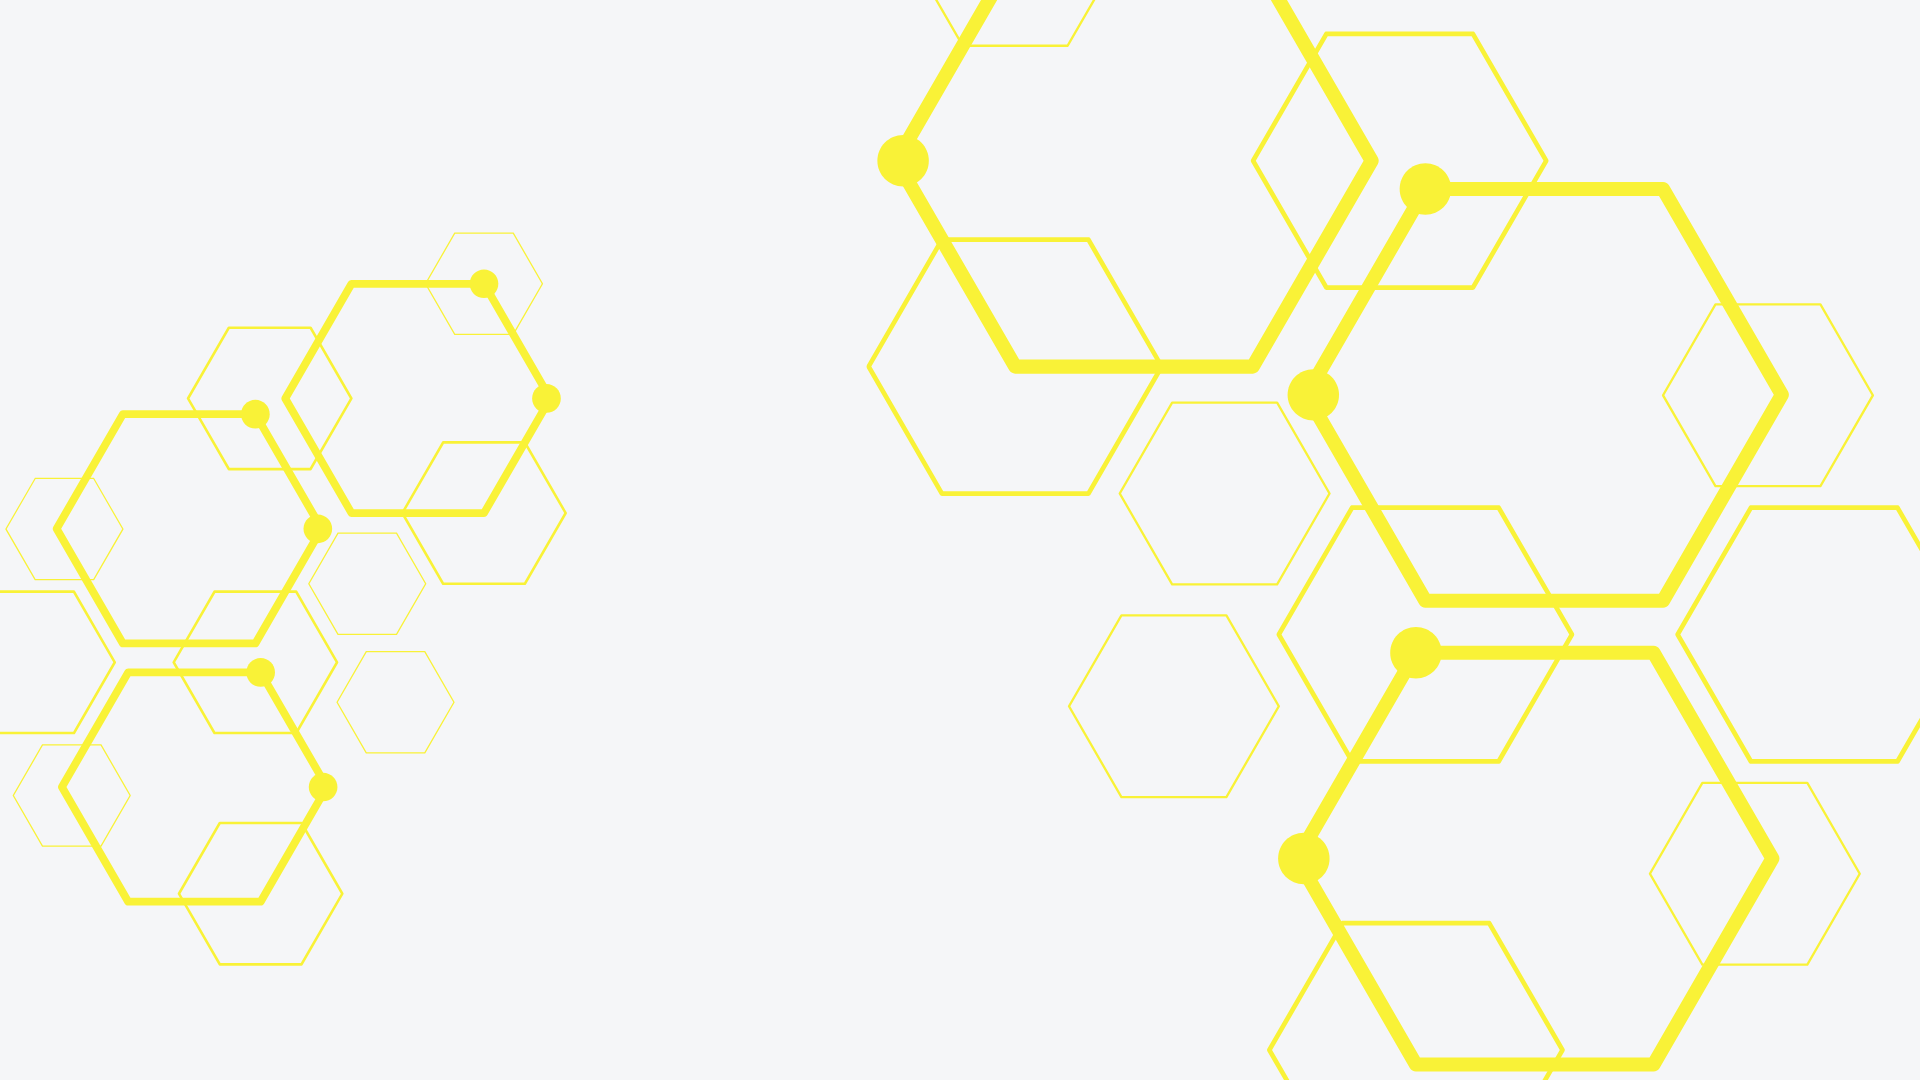
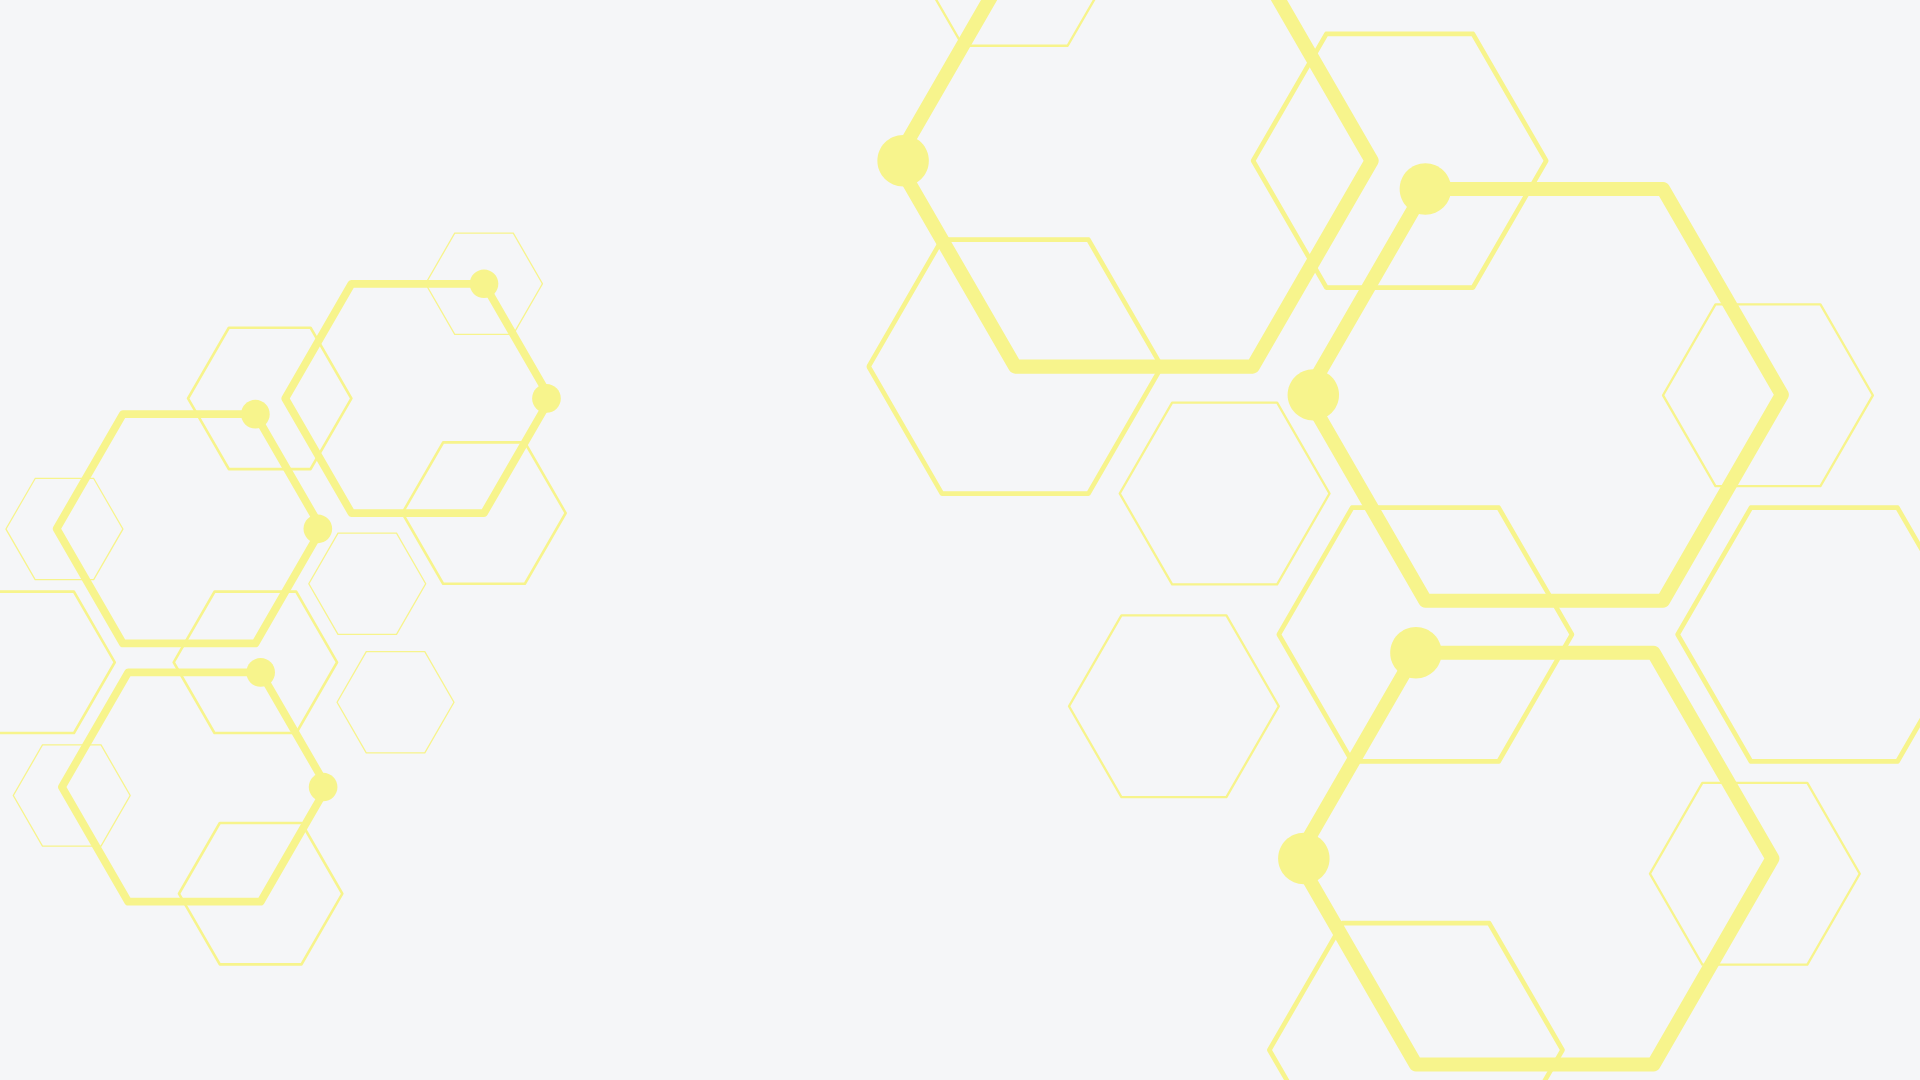
ajustes segunda seção

diff --git a/index.html b/index.html
@@ -13,7 +13,7 @@
                     class="img-logo"
                     src="./images/minha-logo.png"
                     alt="logo de teste"
-                    width="500"
+                    
                 />
             </div>
             <nav>
@@ -38,7 +38,6 @@
                     <a href="#contact" class="btn-action link-action">Saiba Mais</a>
                 </div>
                 <div class="box-img-main">
-                    <!-- substituir a imagem de teste por uma imagem minha quadrada, pra ficar redondinho certinho com border radius -->
                     <img
                         src="./images/eu.png"
                         alt="Perfil Vladimir Aires"
@@ -46,6 +45,31 @@
 
                     />
                 </div>
+            </section>
+            <section class="second-section">
+                
+                
+                    <img
+                        class="img-who-am-i"
+                        src="./images/eu3.png"
+                        alt="Imagem do Vladimir Aires"
+                    />
+                    <div class="about-me">
+                        <h2 class="title">Sobre mim</h2>
+                        <p>
+                            Me chamo <strong>Vladimir Aires</strong> e estou
+                            cursando
+                            <strong>Análise e Desenvolvimento de Sistemas</strong>
+                            no IESB-OESTE. Busco oportunidades para aplicar meus
+                            conhecimentos e me especializar como
+                            <strong>desenvolvedor Full Stack</strong>
+                        </p>
+                    </div>
+            </section>
+            <section id="my-projects" class="fourth-section">
+                <h2 class="title">Meus projetos</h2>
+                <p id="loading">Carregando...</p>
+                <div id="my-projects-list"></div>
             </section>
             <section id="experiences" class="second-section">
                 <h2 class="title">Experiências</h2>
@@ -56,29 +80,6 @@
                     <li>Next.js</li>
                     <li>MySQL</li>
                 </ul>
-            </section>
-            <section id="who-am-i" class="third-section">
-                <h2 class="title">Quem sou eu?</h2>
-                <div>
-                    <img
-                        class="img-who-am-i"
-                        src="./images/foto2-teste.jpg"
-                        alt="Imagem do Vladimir Aires"
-                    />
-                    <p>
-                        Me chamo <strong>Vladimir Aires</strong> e estou
-                        cursando
-                        <strong>Análise e Desenvolvimento de Sistemas</strong>
-                        no IESB-OESTE. Busco oportunidades para aplicar meus
-                        conhecimentos e me especializar como
-                        <strong>desenvolvedor Full Stack</strong>
-                    </p>
-                </div>
-            </section>
-            <section id="my-projects" class="fourth-section">
-                <h2 class="title">Meus projetos</h2>
-                <p id="loading">Carregando...</p>
-                <div id="my-projects-list"></div>
             </section>
         </main>
         <footer id="contact">

diff --git a/style.css b/style.css
@@ -78,7 +78,7 @@ header{
 }
 
 .img-logo{
-    max-width: 60px;
+    max-width: 500px;
     height: 100%;
     border-radius: 50%;
     box-shadow: 1px 1px 1px 1px gray
@@ -130,6 +130,7 @@ nav{
   -webkit-transition: all 0.3s;
   transition: all 0.3s;
   
+  
 }
 
 
@@ -163,17 +164,20 @@ main{
     gap: 2rem;
 }
 
-section{
-    padding: 4rem;
-}
+
 
 .first-section{
+    background-image: url('images/fundo-portifolio.png');
+    background-size: cover;
+    background-position: center;
+    background-repeat: no-repeat;
     display: flex;
     justify-content: space-evenly;
     gap: 2rem;
     flex-wrap: wrap;
     align-items: center;
-    min-height: 650px;
+    text-align: center;
+    min-height: 750px;
 }
 
 .first-section > div{
@@ -207,17 +211,21 @@ strong{
     width: 100%;
     
 }
+.img-who-am-i{
+    width: 350px;
+    border-radius: 50%;
+}
 
-:is(.second-section,.fourth-section){
+/* :is(.second-section,.fourth-section){
     background-color: var(--dark2);
     display: flex;
     flex-direction: column;
     align-items: center;
     justify-content: center;
     gap: 2rem;
-}
+} */
 
-.second-section ul{
+/* .second-section ul{
     list-style: none;
     display: flex;
     justify-content: center;
@@ -236,36 +244,50 @@ strong{
     color: var(--dark5);
     transition: .4s;
     cursor: default;
-}
+} */
 
 .title{
     color: var(--dark5);
+    
 }
-
-.third-section{
-    display: flex;
+.about-me{
+    display:flex;
     flex-direction: column;
+    background-color: #ffd700;
+    align-items: flex-start ; 
+    flex-wrap: wrap;
     gap: 2rem;
+    max-width: 600px;
+}
+.second-section{
+    display: flex;
+    justify-content: center;
+    gap: 2rem;
+    min-height: 500px;
+    background-color: #181B20;
+    color: white;
+    align-items: center;
 }
 
-.third-section > div{
+/* .second-section > div{
     display: flex;
     gap: 4rem;
     justify-content: center;
     align-items: center;
     flex-wrap: wrap;
-}
+    
+} */
 
-.third-section > div img{
+/* .second-section > div img{
     width: 250px;
     border-radius: 10px;
-}
+} */
 
-.third-section > div p{
+/* .second-section > div p{
     max-width: 600px;
     color: var(--white);
     text-align: justify;
-}
+} */
 
 footer{
     padding: 4rem;
@@ -301,7 +323,7 @@ footer > div{
     cursor: pointer
 }
 
-:is(.img-profile, .img-who-am-i){
+/* :is(.img-profile, .img-who-am-i){
     box-shadow: 1px 1px 1px 1px var(--cyan);
-}
+} */
 
